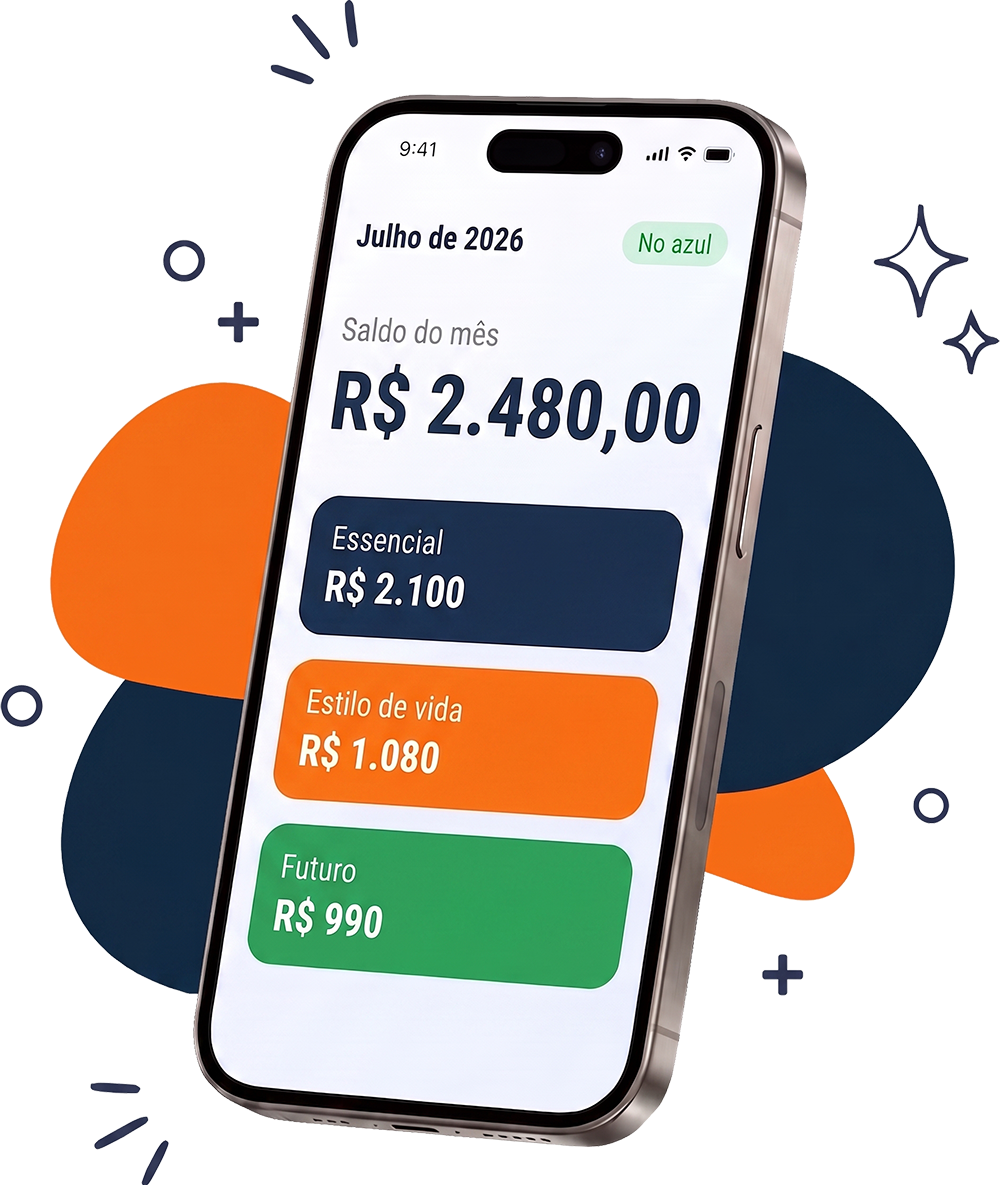
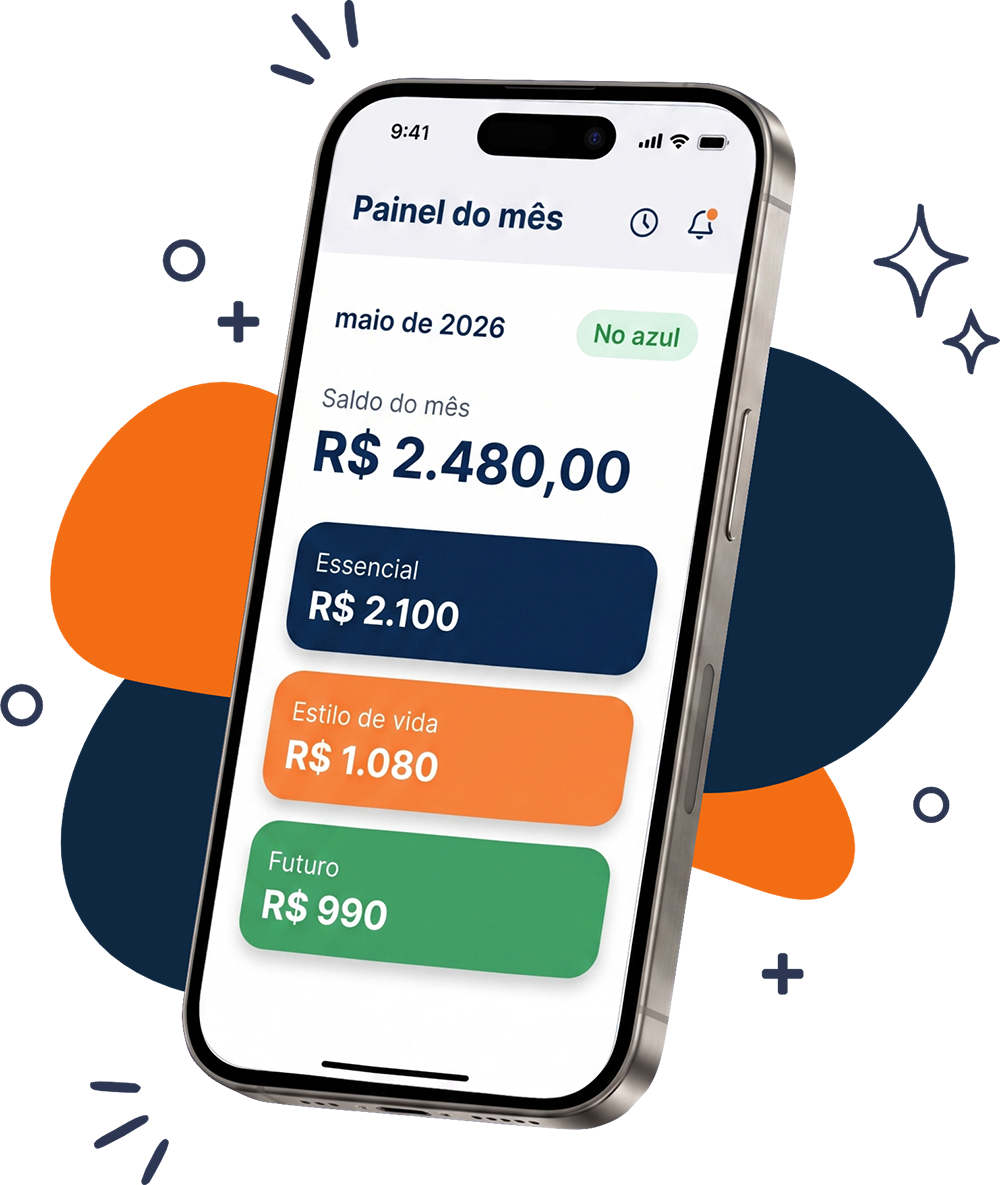
feat(lp): hero com app no notebook + celular; painel.png corrigida
- hero.png nova (duo laptop+iphone, fundo transparente) substitui a
  painel.png no topo, que volta a ser exclusiva do Por dentro do app
- painel.png regenerada pelo usuario (corrige portugues, "maio de
  2026") com fundo transparente e sem o quadrado branco

diff --git a/src/routes/index.tsx b/src/routes/index.tsx
@@ -300,15 +300,15 @@ function LandingPage() {
             />
           </div>
 
-          {/* App em destaque no celular */}
+          {/* App no notebook e no celular */}
           <div className="flex justify-center">
             <img
-              src="/lp/app/painel.png"
-              alt="Painel do mês do app Família no Azul num celular, com o saldo do mês e a divisão 50-30-20."
+              src="/lp/app/hero.png"
+              alt="App Família no Azul aberto num notebook e num celular ao mesmo tempo, mostrando o painel do mês com o saldo e a divisão 50-30-20."
               loading="eager"
-              width={1000}
-              height={1185}
-              className="w-full max-w-[300px] drop-shadow-2xl md:max-w-[360px]"
+              width={1200}
+              height={801}
+              className="w-full max-w-[560px] drop-shadow-2xl"
             />
           </div>
         </div>